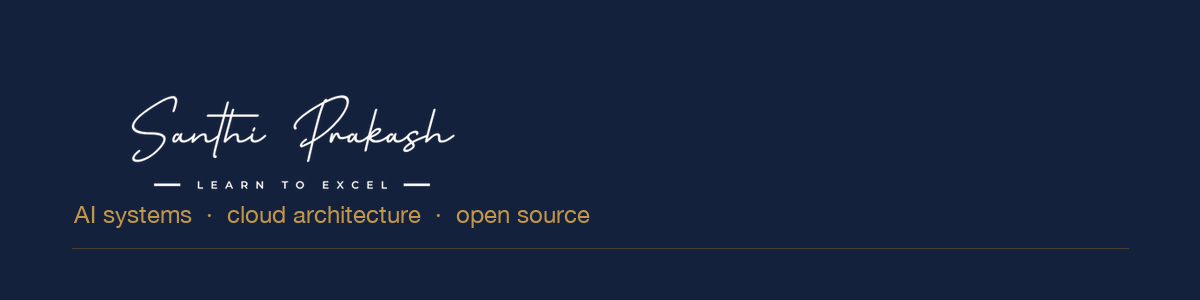
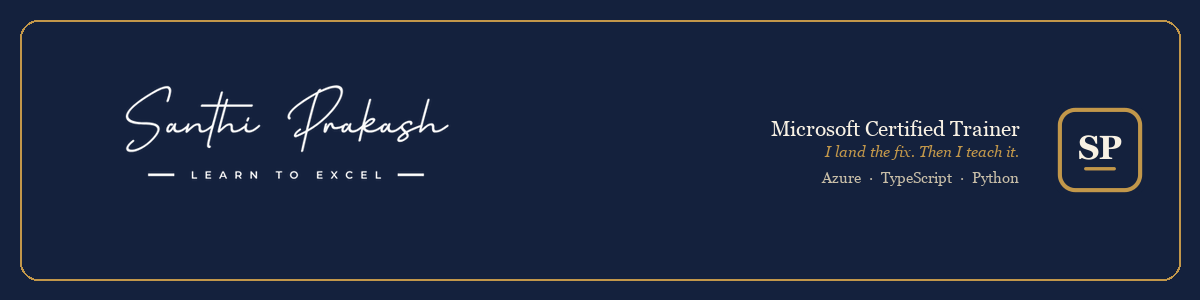
docs: refresh profile with live upstream counts and nameplate header

diff --git a/README.md b/README.md
@@ -1,68 +1,58 @@
-<div align="center">
+<p align="center">
+  <img src="./assets/profile-header.png" alt="Santhi Prakash — Microsoft Certified Trainer. I land the fix. Then I teach it." width="100%" />
+</p>
 
-![Santhi Prakash — AI systems builder and open-source contributor](./assets/profile-header.png)
+I land production fixes in tools people actually run — then I teach the lesson. Microsoft Certified Trainer. TypeScript, Python, Azure, Postgres, LLMs.
 
-[![Website](https://img.shields.io/badge/santhiprakash.com-0b1f35?style=for-the-badge&logo=safari&logoColor=55d6be)](https://santhiprakash.com)
-[![LinkedIn](https://img.shields.io/badge/LinkedIn-0b1f35?style=for-the-badge&logo=linkedin&logoColor=72a7ff)](https://linkedin.com/in/santhiprakashb)
-[![YouTube](https://img.shields.io/badge/YouTube-0b1f35?style=for-the-badge&logo=youtube&logoColor=ff6b6b)](https://www.youtube.com/@santhiprakashb)
-[![Email](https://img.shields.io/badge/Let's_talk-0b1f35?style=for-the-badge&logo=gmail&logoColor=f3f7fb)](mailto:connect@santhiprakash.com)
+[santhiprakash.com](https://santhiprakash.com) · [LinkedIn](https://linkedin.com/in/santhiprakashb) · [YouTube](https://www.youtube.com/@santhiprakashb) · [connect@santhiprakash.com](mailto:connect@santhiprakash.com)
 
-</div>
+## Upstream
 
-I build AI workflows, developer tools, and resilient cloud systems that survive
-contact with production — TypeScript, Python, Azure, Postgres, and LLMs. I teach
-the lessons in practical, build-first sessions.
+Merged means a maintainer took it. Opened is everything I submitted, including work that was closed or superseded. Badges are live.
 
-<div align="center">
+| Project | What I work on there | Merged | Opened |
+|:--|:--|:--:|:--:|
+| [**OpenMausBot**](https://github.com/milind-soni/OpenMausBot) | Agentic desktop bot — Electron, Windows/macOS edge cases | [![merged](https://img.shields.io/github/issues-search/milind-soni/OpenMausBot?query=is%3Apr+is%3Amerged+author%3Asanthiprakash&label=merged&color=C2974A)](https://github.com/milind-soni/OpenMausBot/pulls?q=is%3Apr+is%3Amerged+author%3Asanthiprakash) | [![opened](https://img.shields.io/github/issues-search/milind-soni/OpenMausBot?query=is%3Apr+author%3Asanthiprakash&label=opened&color=14213D)](https://github.com/milind-soni/OpenMausBot/pulls?q=is%3Apr+author%3Asanthiprakash) |
+| [**Reactive Resume**](https://github.com/reactive-resume/reactive-resume) | Privacy-first resume builder — forms, schema, a11y | [![merged](https://img.shields.io/github/issues-search/reactive-resume/reactive-resume?query=is%3Apr+is%3Amerged+author%3Asanthiprakash&label=merged&color=C2974A)](https://github.com/reactive-resume/reactive-resume/pulls?q=is%3Apr+is%3Amerged+author%3Asanthiprakash) | [![opened](https://img.shields.io/github/issues-search/reactive-resume/reactive-resume?query=is%3Apr+author%3Asanthiprakash&label=opened&color=14213D)](https://github.com/reactive-resume/reactive-resume/pulls?q=is%3Apr+author%3Asanthiprakash) |
+| [**Remotion**](https://github.com/remotion-dev/remotion) | Programmatic video with React | [![merged](https://img.shields.io/github/issues-search/remotion-dev/remotion?query=is%3Apr+is%3Amerged+author%3Asanthiprakash&label=merged&color=C2974A)](https://github.com/remotion-dev/remotion/pulls?q=is%3Apr+is%3Amerged+author%3Asanthiprakash) | [![opened](https://img.shields.io/github/issues-search/remotion-dev/remotion?query=is%3Apr+author%3Asanthiprakash&label=opened&color=14213D)](https://github.com/remotion-dev/remotion/pulls?q=is%3Apr+author%3Asanthiprakash) |
+| [**OpenShip**](https://github.com/oblien/openship) | Self-hosted deployment platform | [![merged](https://img.shields.io/github/issues-search/oblien/openship?query=is%3Apr+is%3Amerged+author%3Asanthiprakash&label=merged&color=C2974A)](https://github.com/oblien/openship/pulls?q=is%3Apr+is%3Amerged+author%3Asanthiprakash) | [![opened](https://img.shields.io/github/issues-search/oblien/openship?query=is%3Apr+author%3Asanthiprakash&label=opened&color=14213D)](https://github.com/oblien/openship/pulls?q=is%3Apr+author%3Asanthiprakash) |
+| [**HyperFrames**](https://github.com/heygen-com/hyperframes) | HTML-to-video tooling for agents | [![merged](https://img.shields.io/github/issues-search/heygen-com/hyperframes?query=is%3Apr+is%3Amerged+author%3Asanthiprakash&label=merged&color=C2974A)](https://github.com/heygen-com/hyperframes/pulls?q=is%3Apr+is%3Amerged+author%3Asanthiprakash) | [![opened](https://img.shields.io/github/issues-search/heygen-com/hyperframes?query=is%3Apr+author%3Asanthiprakash&label=opened&color=14213D)](https://github.com/heygen-com/hyperframes/pulls?q=is%3Apr+author%3Asanthiprakash) |
+| [**Beszel**](https://github.com/henrygd/beszel) | Lightweight server monitoring | [![merged](https://img.shields.io/github/issues-search/henrygd/beszel?query=is%3Apr+is%3Amerged+author%3Asanthiprakash&label=merged&color=C2974A)](https://github.com/henrygd/beszel/pulls?q=is%3Apr+is%3Amerged+author%3Asanthiprakash) | [![opened](https://img.shields.io/github/issues-search/henrygd/beszel?query=is%3Apr+author%3Asanthiprakash&label=opened&color=14213D)](https://github.com/henrygd/beszel/pulls?q=is%3Apr+author%3Asanthiprakash) |
+| [**Prettier**](https://github.com/prettier/prettier) | Opinionated code formatting | [![merged](https://img.shields.io/github/issues-search/prettier/prettier?query=is%3Apr+is%3Amerged+author%3Asanthiprakash&label=merged&color=C2974A)](https://github.com/prettier/prettier/pulls?q=is%3Apr+is%3Amerged+author%3Asanthiprakash) | [![opened](https://img.shields.io/github/issues-search/prettier/prettier?query=is%3Apr+author%3Asanthiprakash&label=opened&color=14213D)](https://github.com/prettier/prettier/pulls?q=is%3Apr+author%3Asanthiprakash) |
 
-![Agent workflows](https://img.shields.io/badge/agent_workflows-0b1f35?style=flat-square)
-![Developer tooling](https://img.shields.io/badge/developer_tooling-0b1f35?style=flat-square)
-![Azure architecture](https://img.shields.io/badge/Azure_architecture-0b1f35?style=flat-square)
-![Practical AI education](https://img.shields.io/badge/practical_AI_education-0b1f35?style=flat-square)
+## I'd show a maintainer these three
 
-</div>
+- [**agent-skills #574**](https://github.com/addyosmani/agent-skills/pull/574) — stopped a SessionStart hook from injecting a second skill router (~3.5k wasted tokens a session). Merged 18 Sep 2026.
+- [**Beszel #2325**](https://github.com/henrygd/beszel/pull/2325) — skip `zpool list` when `/dev/zfs` is missing inside the container, so Linux hosts without ZFS stop erroring.
+- [**OpenMausBot #1324**](https://github.com/milind-soni/OpenMausBot/pull/1324) — stale Windows data-dir lease after same-boot PID reuse, with tests for hosts that no longer ship `wmic`.
 
----
+## On the channel
 
-## Open-source footprint
+Build-first walkthroughs — [subscribe](https://www.youtube.com/@santhiprakashb).
 
-Chosen for project reach and merge rate — the share of my submitted PRs that
-maintainers actually merged. Snapshot: **6 September 2026**.
-
-| Project | What it builds | Merged / submitted |
-|:--|:--|:--:|
-| [**Remotion**](https://github.com/remotion-dev/remotion) | Programmatic video with React | [![26 of 51 merged](https://img.shields.io/badge/26_%2F_51-2ea44f?style=flat-square)](https://github.com/remotion-dev/remotion/pulls?q=is%3Apr+is%3Amerged+author%3Asanthiprakash) |
-| [**Reactive Resume**](https://github.com/amruthpillai/reactive-resume) | Privacy-first resume builder | [![16 of 17 merged](https://img.shields.io/badge/16_%2F_17-2ea44f?style=flat-square)](https://github.com/amruthpillai/reactive-resume/pulls?q=is%3Apr+is%3Amerged+author%3Asanthiprakash) |
-| [**OpenMausBot**](https://github.com/milind-soni/OpenMausBot) | Open-source agentic bot | [![17 of 18 merged](https://img.shields.io/badge/17_%2F_18-2ea44f?style=flat-square)](https://github.com/milind-soni/OpenMausBot/pulls?q=is%3Apr+is%3Amerged+author%3Asanthiprakash) |
-| [**OpenShip**](https://github.com/oblien/openship) | Self-hosted deployment platform | [![13 of 33 merged](https://img.shields.io/badge/13_%2F_33-2ea44f?style=flat-square)](https://github.com/oblien/openship/pulls?q=is%3Apr+is%3Amerged+author%3Asanthiprakash) |
-| [**HyperFrames**](https://github.com/heygen-com/hyperframes) | HTML-to-video tooling for agents | [![8 of 14 merged](https://img.shields.io/badge/8_%2F_14-2ea44f?style=flat-square)](https://github.com/heygen-com/hyperframes/pulls?q=is%3Apr+is%3Amerged+author%3Asanthiprakash) |
-| [**OpenClaw**](https://github.com/openclaw/openclaw) | Cross-platform personal AI | [![9 of 35 merged](https://img.shields.io/badge/9_%2F_35-2ea44f?style=flat-square)](https://github.com/openclaw/openclaw/pulls?q=is%3Apr+is%3Amerged+author%3Asanthiprakash) |
-| [**Prettier**](https://github.com/prettier/prettier) | Opinionated code formatting | [![7 of 28 merged](https://img.shields.io/badge/7_%2F_28-2ea44f?style=flat-square)](https://github.com/prettier/prettier/pulls?q=is%3Apr+is%3Amerged+author%3Asanthiprakash) |
-
-<sub>Counts are merged PRs over all PRs submitted from this account, verified
-through GitHub's search API. Closed or superseded work is not counted as
-accepted impact.</sub>
-
-## Work I'm proud of
-
-- [**Reactive Resume #3387**](https://github.com/amruthpillai/reactive-resume/pull/3387) — repaired form-control label and accessibility contracts, with regression coverage.
-- [**Beszel #2269**](https://github.com/henrygd/beszel/pull/2269) — corrected GPU chart layout behaviour and worked through maintainer review to merge.
-- [**HyperFrames #3387**](https://github.com/heygen-com/hyperframes/pull/3387) — surfaced every tried path in missing-manifest errors, across producer and CLI.
-
-## Latest from the channel
-
-<!-- YOUTUBE:START -->
-<!-- YOUTUBE:END -->
-
-<sub>Build-first walkthroughs on cloud, AI, and developer tooling —
-[subscribe on YouTube](https://www.youtube.com/@santhiprakashb).</sub>
+<table>
+  <tr>
+    <td width="33%" valign="top">
+      <a href="https://www.youtube.com/watch?v=CVsvubTJsb0">
+        <img src="https://img.youtube.com/vi/CVsvubTJsb0/hqdefault.jpg" alt="ZCode beginner guide" />
+      </a><br/>
+      <a href="https://www.youtube.com/watch?v=CVsvubTJsb0">ZCode: install, one safe change, verify</a>
+    </td>
+    <td width="33%" valign="top">
+      <a href="https://www.youtube.com/watch?v=y8yeQb8wTa8">
+        <img src="https://img.youtube.com/vi/y8yeQb8wTa8/hqdefault.jpg" alt="Granular terminal tutorial" />
+      </a><br/>
+      <a href="https://www.youtube.com/watch?v=y8yeQb8wTa8">Granular: the terminal for everybody</a>
+    </td>
+    <td width="33%" valign="top">
+      <a href="https://www.youtube.com/watch?v=JJ3DNTszo4o">
+        <img src="https://img.youtube.com/vi/JJ3DNTszo4o/hqdefault.jpg" alt="Cline walkthrough" />
+      </a><br/>
+      <a href="https://www.youtube.com/watch?v=JJ3DNTszo4o">Cline: free AI coding agent, full walkthrough</a>
+    </td>
+  </tr>
+</table>
 
 ---
 
-<div align="center">
-
-### Build something useful with me
-
-Projects are pinned below · [**santhiprakash.com**](https://santhiprakash.com) · [**connect@santhiprakash.com**](mailto:connect@santhiprakash.com)
-
-</div>
+Pinned below is upstream work, not product demos. [**santhiprakash.com**](https://santhiprakash.com) · [**connect@santhiprakash.com**](mailto:connect@santhiprakash.com)
